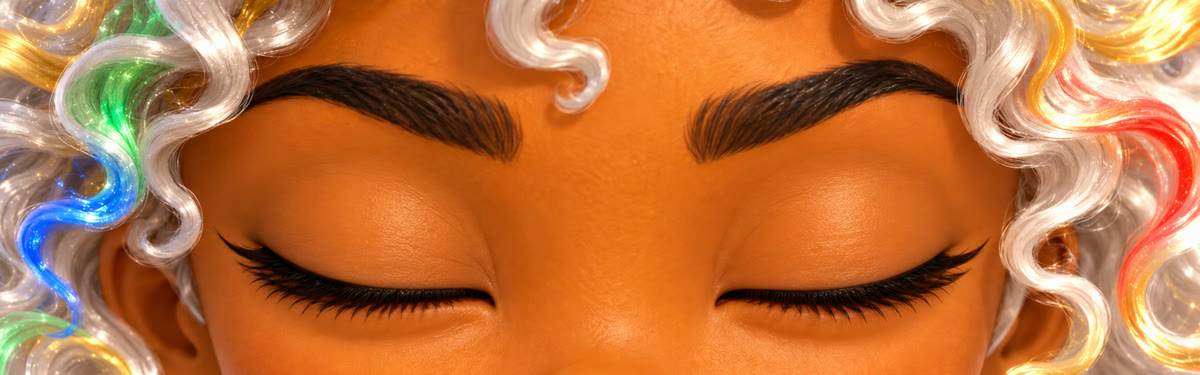
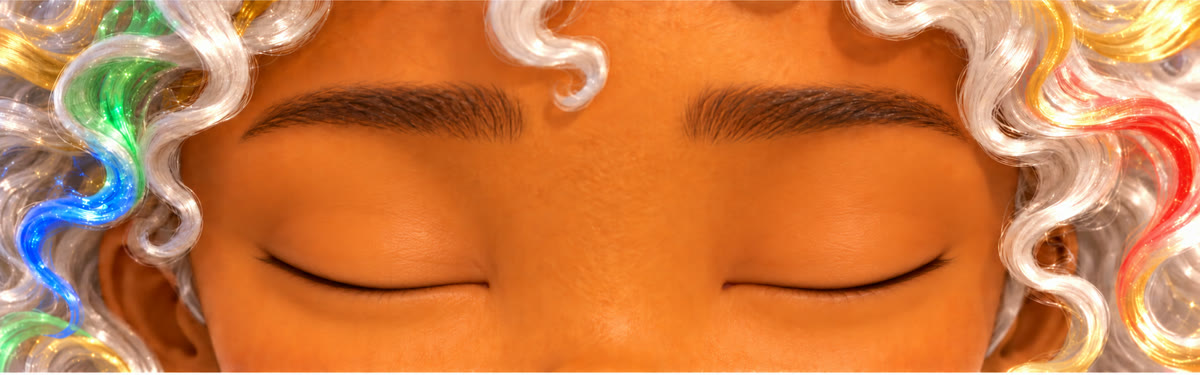
Giants in their own art; painted Omni eyes for all seven Keepers
- Codex brief 10: Rammer, Colossus, Pack Alpha in five elements, swapping to stuck / core open / howl when the weak spot shows;
  drawn at full resolution; gold on non-earth giants retouched to their element; names never across a giant's body
- Giant hit flash follows the boss rule (a light pulse, at most five a second)
- Codex brief 11b: child-like brows and lashes for Amara, Kai, Priya, Sina; every Keeper now opens into painted Omni eyes

diff --git a/level1/index.html b/level1/index.html
@@ -3091,7 +3091,7 @@ function startRun() {
   if (LVL === 5) { S.p.x = L5_START.x; S.p.y = L5_START.y; camX = S.p.x - VW / 2; camY = S.p.y - VH * .45; }
   S.out = towersLevel(LVL) ? makeOutposts(LVL) : null;
   if (S.out) { S.p.x = S.out.start.x; S.p.y = S.out.start.y; S.pet.x = S.p.x - 40; S.pet.y = S.p.y + 30; camX = S.p.x - VW / 2; camY = S.p.y - VH * .45; }
-  AU.song(SONG_OF[worldOf()]); AU.music(true); new Image().src = `art4/rise/k${keeper}.jpg?v=8`; if (!IMG['k' + keeper + 'hs']) load('k' + keeper + 'hs', `art4/k${keeper}-omni.png?v=1`); if (OMNI_PAINTED[keeper]) { for (const v of ['', '-closed']) if (!IMG['k' + keeper + 'eyes' + v]) load('k' + keeper + 'eyes' + v, `art4/omni/k${keeper}-omni-eyes${v}.jpg?v=2`); } else if (!IMG['k' + keeper + 'eyesrc']) load('k' + keeper + 'eyesrc', `art4/k${keeper}-highest.png?v=8`); for (const n of ['reach', 'breath']) load('k' + keeper + n, `art4/k${keeper}-${n}.png?v=8`); if (LVL === 5) { new Image().src = `art4/k${keeper}-shock.png?v=1`; new Image().src = `art4/k${keeper}-hurt.png?v=8`; } renderSkills(); startLoop();
+  AU.song(SONG_OF[worldOf()]); AU.music(true); new Image().src = `art4/rise/k${keeper}.jpg?v=8`; if (!IMG['k' + keeper + 'hs']) load('k' + keeper + 'hs', `art4/k${keeper}-omni.png?v=1`); if (OMNI_PAINTED[keeper]) { for (const v of ['', '-closed']) if (!IMG['k' + keeper + 'eyes' + v]) load('k' + keeper + 'eyes' + v, `art4/omni/k${keeper}-omni-eyes${v}.jpg?v=3`); } else if (!IMG['k' + keeper + 'eyesrc']) load('k' + keeper + 'eyesrc', `art4/k${keeper}-highest.png?v=8`); for (const n of ['reach', 'breath']) load('k' + keeper + n, `art4/k${keeper}-${n}.png?v=8`); if (LVL === 5) { new Image().src = `art4/k${keeper}-shock.png?v=1`; new Image().src = `art4/k${keeper}-hurt.png?v=8`; } renderSkills(); startLoop();
   COACH.q.length = 0; COACH.cur = null; COACH.gap = .4; hideCoach(); NOTES.q.length = 0; NOTES.t = 3;
   // tutorials belong to level 1 only; later levels just play
   if (S.level > 1) ['move', 'pet', 'enemy', 'gem', 'xp', 'crate', 'item', 'chest', 'wave', 'boss', 'awake'].forEach(k => S.taught['c_' + k] = 1), ['lu', 'luevo', 'lugift', 'chest', 'strong', 'weak'].forEach(k => S.taught[k] = 1); $('#wavePill').classList.add('on');
@@ -4471,7 +4471,7 @@ function landSpike(b, B, f) {
 // - the Pack Alpha: howls up a pack, and takes half damage while three of them stand near it; free the pack first
 // Each arrives with a quake and a roar, teaches itself once (a card and Luma's line), and pays a chest, a heart and gems.
 // Codex's art (brief 10) goes in art4/giants/; until then each stands in, scaled up, as a creature of its element.
-const GIANT_ART = false;
+const GIANT_ART = true;   // Codex brief 10 landed (2026-10-06)
 const GIANT = {
   rammer:{ n:'Rammer', hp:5, size:250, r:58, sp:52, dmg:30, stand:el => 'e-' + el + '-c',
     tip:'Its horns block your hits. Step aside when it charges, then hit its glowing back while it is stuck.' },
@@ -4505,9 +4505,10 @@ function giantsTick(dt) {
 function spawnGiant(k, at) {
   const G = GIANT[k], P = S.p, a = rnd(0, TAU), d = Math.hypot(VW, VH) / 2 + 140, el = (pl => pl[(Math.random() * pl.length) | 0])(mixPool());
   const e = spawn('golem', at || { x:clamp(P.x + Math.cos(a) * d, 80, WORLD - 80), y:clamp(P.y + Math.sin(a) * d, 80, WORLD - 80) }, 1, el); if (!e) return null;
-  const art = 'g-' + k + '-' + el; if (GIANT_ART && !IMG[art]) load(art, `art4/giants/${art}.png?v=1`);
+  const art = 'g-' + k + '-' + el, pose = art + '-' + { rammer:'stuck', colossus:'open', alpha:'howl' }[k];
+  if (GIANT_ART) for (const n of [art, pose]) if (!IMG[n]) load(n, `art4/giants/${n}.png?v=1`);
   Object.assign(e, { type:'giant', giant:k, gst:'walk', gcd:2.4, howl:.6, size:G.size, r:G.r, sp:G.sp * (1 + .04 * (S.hard || 0)), dmg:G.dmg, heavy:true, xp:40, tagT:3.5,
-    img:GIANT_ART && ok(IMG[art]) ? art : G.stand(el), K:{ ...e.K, n:G.n, tip:null, beh:'giant' } });
+    gart:art, gpose:pose, img:GIANT_ART && ok(IMG[art]) ? art : G.stand(el), K:{ ...e.K, n:G.n, tip:null, beh:'giant', face:-1 } });
   e.own = e.img !== 'e-golem' && e.img !== 'e-wolf'; e.hp = e.max = e.max * G.hp * (S.level === 1 ? .6 : 1);
   S.shake = Math.max(S.shake, .5); SFX.roar(); SFX.stomp();
   if (!SEEN.has('_giant-' + k)) { markSeen('_giant-' + k); coach('giant_' + k, 'A giant ' + G.n + '!', G.tip, () => ({ x:e.x, y:e.y - e.size * .3, r:e.size * .55 }), 6); }
@@ -4517,6 +4518,9 @@ function spawnGiant(k, at) {
 const giantArmour = e => e.giant === 'rammer' ? (e.gst === 'stuck' ? 3 : .33) : e.giant === 'colossus' ? (giantOpen(e) ? 3 : .55) : e.shield ? .5 : 1;
 const giantOpen = e => S.t >= (e.openAt ?? 1e9) && S.t < e.openAt + 2.2;
 function giantMove(e, P, d, dt, s) {
+  // Codex's art once loaded, in its weak-spot pose while the weak spot is open (stuck, core open, howling)
+  if (GIANT_ART && ok(IMG[e.gart])) { const posed = e.giant === 'rammer' ? e.gst === 'stuck' : e.giant === 'colossus' ? giantOpen(e) : S.t - (e.howlAt ?? -9) < .8;
+    e.img = posed && ok(IMG[e.gpose]) ? e.gpose : e.gart; e.own = true; }
   const ux = (P.x - e.x) / d, uy = (P.y - e.y) / d, a = e.act, chase = stop => { if (d > stop) { e.x += ux * s * dt; e.y += uy * s * dt; } };
   if (e.giant === 'rammer') {
     if (e.gst === 'walk') { chase(e.r + P.r - 6); if ((e.gcd -= dt) <= 0 && d < 720 && d > 170) { e.gst = 'aim'; e.act = { k:'lane', ph:0, t:0, wind:1.1, dx:ux, dy:uy, len:900, w:150 }; SFX.roar(); } }
@@ -4554,7 +4558,7 @@ function drawGiant(e) {
   if (e.giant === 'rammer' && e.gst === 'stuck') { const x = e.x - (e.stuckDx || 0) * e.r * .6, y = e.y - s * .32 - (e.stuckDy || 0) * 20, p = .7 + .3 * Math.sin(T * 14);
     add(() => { glowAt(x, y, s * .55, '#FFE08A', .8 * p); glowAt(x, y, s * .22, '#FFFFFF', .7 * p); }); }
   if (e.giant === 'colossus' && giantOpen(e)) { const p = .7 + .3 * Math.sin(T * 14); add(() => { glowAt(e.x, e.y - s * .38, s * .5, '#FFE08A', .85 * p); glowAt(e.x, e.y - s * .38, s * .18, '#FFFFFF', .8 * p); }); }
-  if (e.giant === 'alpha') { if (S.t - (e.howlAt ?? -9) < .8) add(() => glowAt(e.x, e.y - s * .4, s * .9, c, .5));
+  if (e.giant === 'alpha') { if (S.t - (e.howlAt ?? -9) < .8) add(() => glowAt(e.x, e.y - s * .4, s * .9, e.el === 'metal' ? '#8E9AA6' : c, e.el === 'metal' ? .35 : .5));   // silver added on pale ground washes white
     if (e.shield) { g.save(); g.globalAlpha = .55 + .15 * Math.sin(T * 6); g.strokeStyle = c; g.lineWidth = 5; g.beginPath(); g.ellipse(e.x, e.y - s * .3, s * .5, s * .52, 0, 0, TAU); g.stroke();
       g.globalAlpha = .12; g.fillStyle = c; g.fill(); g.globalAlpha = .35; g.lineWidth = 2; g.setLineDash([10, 10]); g.lineDashOffset = -T * 40;
       for (const m of S.en) if (m.packOf === e && !m.dead && Math.hypot(m.x - e.x, m.y - e.y) < 380) { g.beginPath(); g.moveTo(e.x, e.y - s * .3); g.lineTo(m.x, m.y - m.size * .3); g.stroke(); }
@@ -4868,8 +4872,8 @@ const OMNI_ROLL = { 1:18, 2:20, 3:14, 4:16, 5:19, 6:23, 7:18 };   // (these two 
 // Codex's painted Omni eyes in use (brief 11); k1, k2, k3, k7 wait for a re-pass with child-like brows and lashes (design review,
 // 2026-10-06), and show the interim strip until then. Each painted pair opens from its closed lash line (LID_Y, a fraction of
 // the strip's height), so the first sliver is closed lashes, never forehead
-const OMNI_PAINTED = { 4:1, 5:1, 6:1 };
-const LID_Y = { 1:.77, 2:.62, 3:.65, 4:.76, 5:.76, 6:.72, 7:.7 };
+const OMNI_PAINTED = { 1:1, 2:1, 3:1, 4:1, 5:1, 6:1, 7:1 };   // brief 11b landed 2026-10-07: all seven
+const LID_Y = { 1:.7, 2:.7, 3:.7, 4:.76, 5:.76, 6:.72, 7:.7 };
 function hsStart(final, tier = 5, finisher = false) {
   if (S.omni || hsOn()) return; closeSeal(); S.hs.used = true;
   const seen = +(store.get('morqi.omniSeen') || 0), chained = S.t - (S.hs.endAt ?? -99) < 3;
@@ -6540,7 +6544,7 @@ function draw() {
   const drawCreature = (e, again) => {
     // during a Bloom the creatures wear their happy faces, freed of the spell for a moment
     const art = S.bloom && !e.boss && e.own && ok(IMG[e.img + '-happy']) ? e.img + '-happy' : e.img;
-    const im = e.boss ? (ok(IMG[e.img]) ? IMG[e.img] : null) : e.own ? tinted(art, '#000', 0) : tinted(art, EL[e.el]), s = e.size, wind = e.act && e.act.ph === 0 ? Math.min(1, e.act.t / e.act.wind) : 0, rolling = e.act && e.act.ph === 1 && e.act.k === 'lane';
+    const im = e.boss || (e.giant && e.own) ? (ok(IMG[e.img]) ? IMG[e.img] : null) : e.own ? tinted(art, '#000', 0) : tinted(art, EL[e.el]), s = e.size, wind = e.act && e.act.ph === 0 ? Math.min(1, e.act.t / e.act.wind) : 0, rolling = e.act && e.act.ph === 1 && e.act.k === 'lane';
     if (!im) return;
     const hk = Math.max(0, 1 - (S.t - (e.hitAt ?? -9)) / .16), bk = Math.max(0, 1 - (S.t - (e.biteAt ?? -9)) / .2), froz = e.frozen > 0;
     const step = froz ? 0 : Math.sin(e.wob * 1.7), toward = S.p.x > e.x ? 1 : -1;
@@ -6560,7 +6564,8 @@ function draw() {
     if (e.boss) { drawBoss(e, hk); return; }
     g.save(); g.translate(e.x, e.y + e.r * .5 - hop); g.rotate(rot); if (flip) g.scale(-1, 1); g.scale(sx, sy);
     g.drawImage(im, -s / 2, -s * .62 - e.r * .5, s, s);
-    if (hk > 0) { const wh = silhouette(art, '#FFFFFF'); if (wh) { g.globalAlpha = hk * (e.boss ? .22 : .9); g.drawImage(wh, -s / 2, -s * .62 - e.r * .5, s, s); g.globalAlpha = 1; } }
+    const fk = e.giant ? Math.max(0, 1 - (S.t - (e.pulseAt ?? -9)) / .1) : hk;
+    if (fk > 0) { const wh = silhouette(art, '#FFFFFF'); if (wh) { g.globalAlpha = fk * (e.boss || e.giant ? .25 : .9); g.drawImage(wh, -s / 2, -s * .62 - e.r * .5, s, s); g.globalAlpha = 1; } }
     if (froz) { const ic = silhouette(art, '#BFE8FF'); if (ic) { g.globalAlpha = .55; g.drawImage(ic, -s / 2, -s * .62 - e.r * .5, s, s); g.globalAlpha = 1; } }
     if (wind) { const rd = silhouette(art, '#FF3A2A'); if (rd) { g.globalAlpha = wind * .45 * (.6 + .4 * Math.sin(S.t * 30)); g.drawImage(rd, -s / 2, -s * .62 - e.r * .5, s, s); g.globalAlpha = 1; } }
     g.restore();
@@ -6569,7 +6574,8 @@ function draw() {
     if (e.tagT > 0 && !again && !S.omni && !S.omniSnap) tagsLater.push(() => { const k = Math.min(1, e.tagT * 2, (3.5 - e.tagT) * 6), y = e.y - s * .62 - 30; g.globalAlpha = k;
       g.strokeStyle = GROUND_RING[e.el]; g.lineWidth = 4; g.beginPath(); g.ellipse(e.x, e.y + e.r * .5, e.r * 1.8 + Math.sin(S.t * 8) * 4, e.r * .8, 0, 0, TAU); g.stroke();
       // the name stays inside the safe part of the screen, clear of the top bar and the minimap (A's playthrough, 2026-10-05)
-      const tx = clamp(e.x, cx + 74 / Z, cx + (W - 74) / Z); let ty = Math.max(y, cy + 178 / Z); if ((tx - cx) * Z > W - 160 && (ty - cy) * Z < 290) ty = cy + 290 / Z;
+      const tx = clamp(e.x, cx + 74 / Z, cx + (W - 74) / Z); let ty = Math.max(e.giant ? y - 22 : y, cy + 178 / Z); if ((tx - cx) * Z > W - 160 && (ty - cy) * Z < 290) ty = cy + 290 / Z;
+      if (e.giant && ty > e.y - s * .62 - 30) ty = e.y + s * .38 + 24;   // never across a giant's body: below its painted feet
       g.font = '900 21px ui-rounded, "SF Pro Rounded", Nunito, system-ui, sans-serif'; g.textAlign = 'center'; g.lineWidth = 4; g.strokeStyle = 'rgba(16,22,34,.7)'; g.strokeText(e.K.n, tx, ty); g.fillStyle = '#FFFFFF'; g.fillText(e.K.n, tx, ty); g.globalAlpha = 1; g.lineWidth = 1; });
     if (e.giant) drawGiant(e);
     if (e.type === 'golem') { g.fillStyle = 'rgba(0,0,0,.6)'; g.fillRect(e.x - 42, e.y - s * .62 - 14, 84, 10); g.fillStyle = EL[e.el]; g.fillRect(e.x - 40, e.y - s * .62 - 12, 80 * Math.max(0, e.hp / e.max), 6); }
